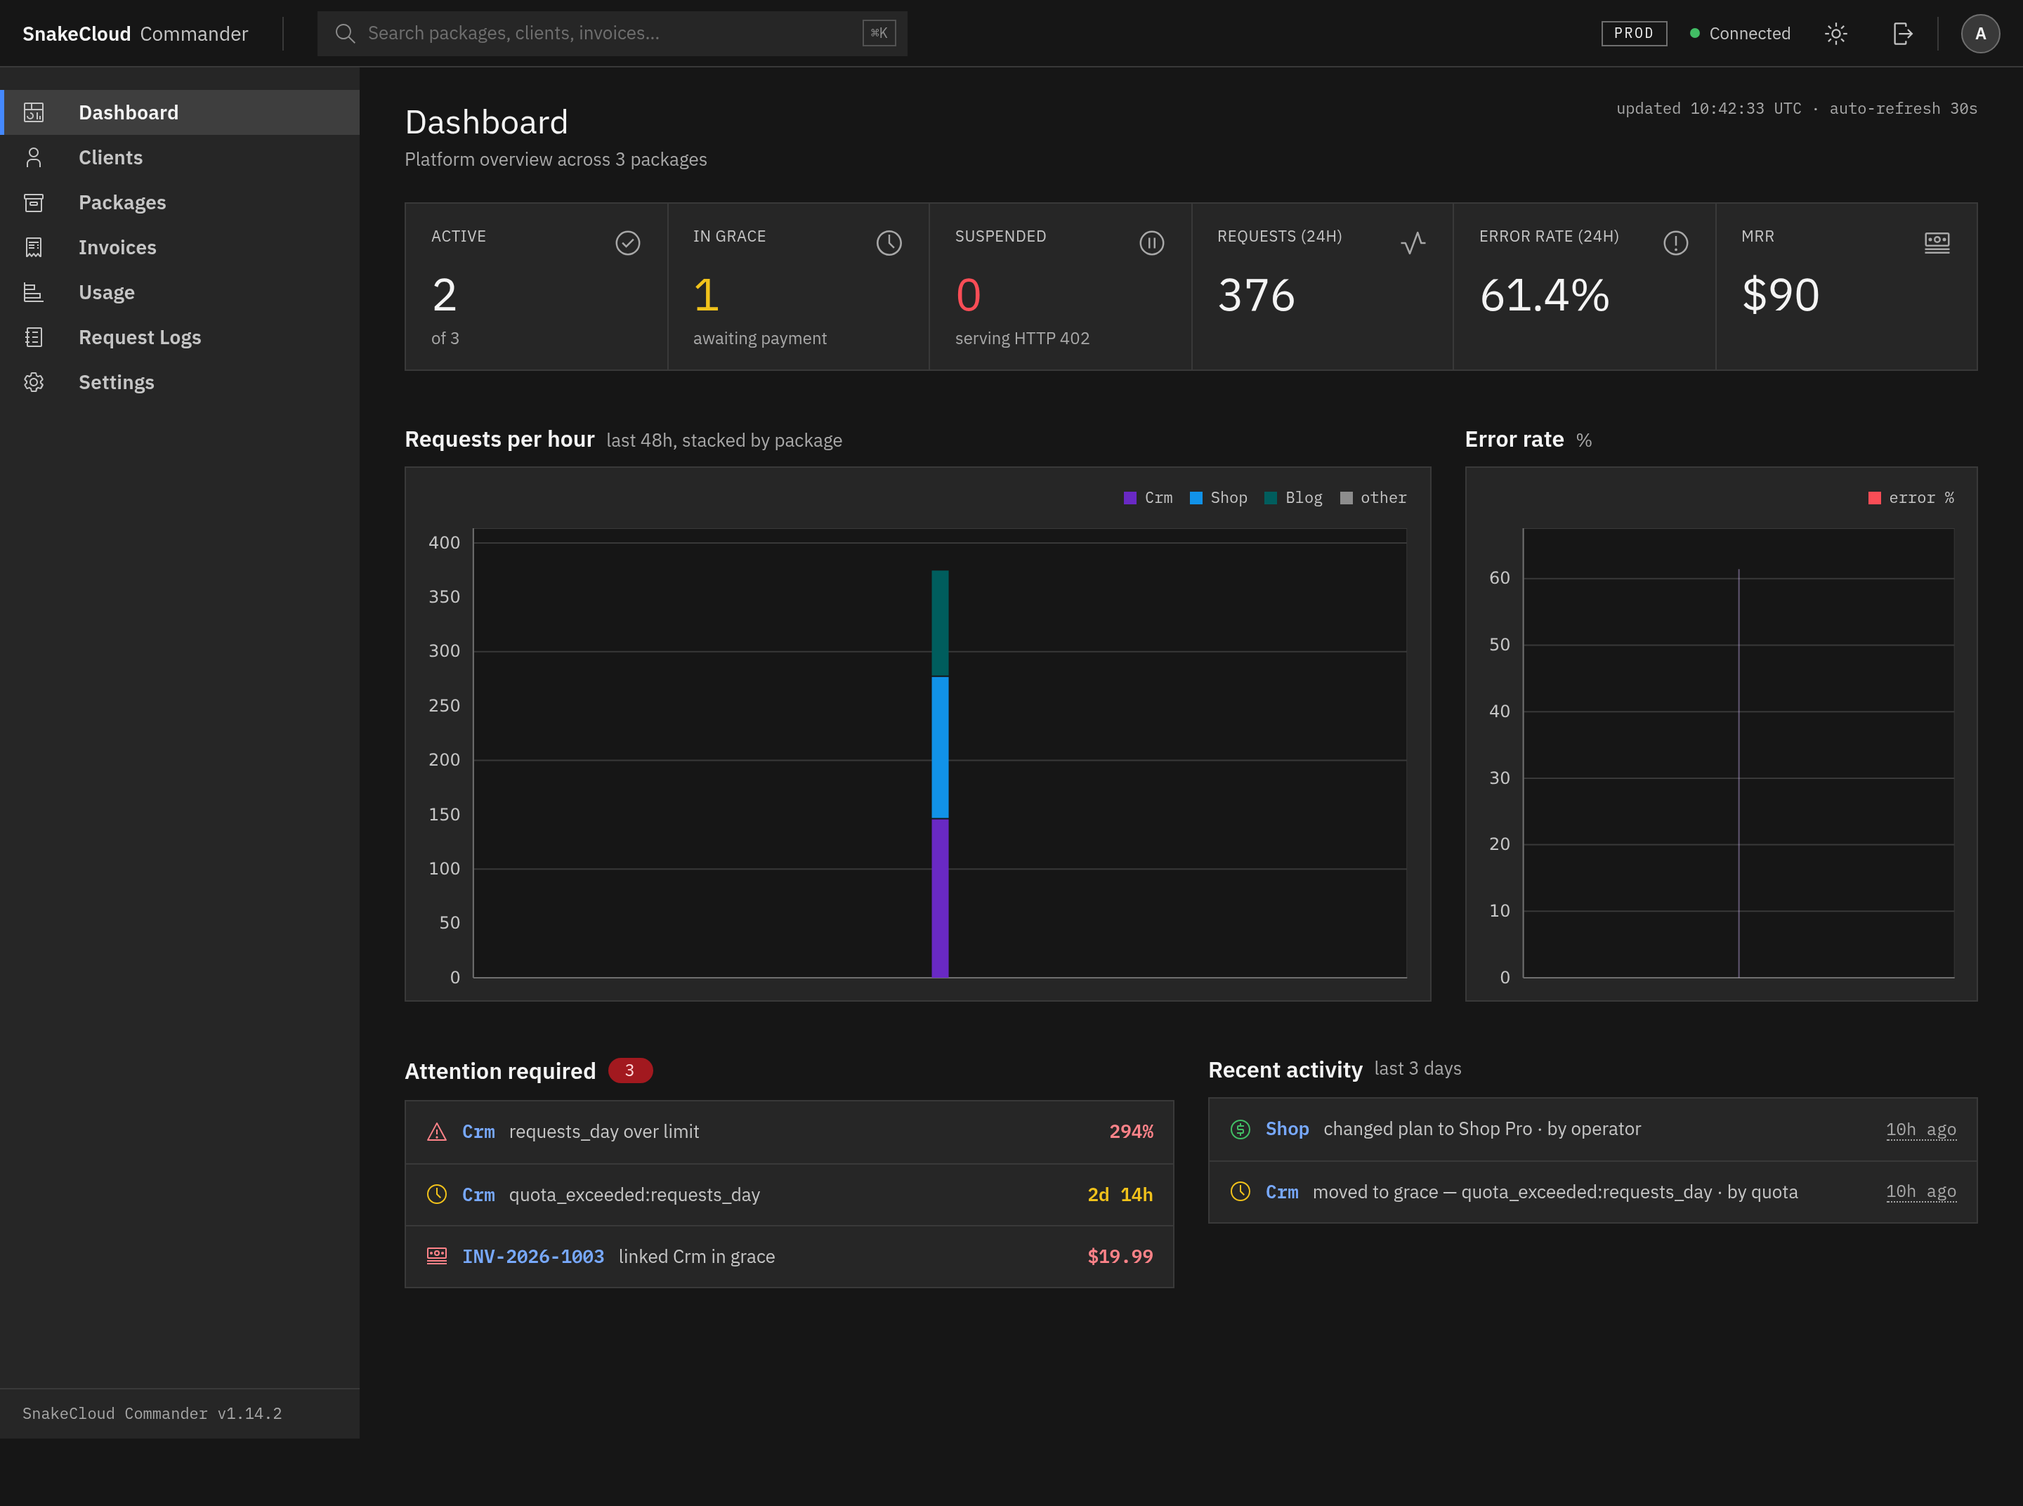
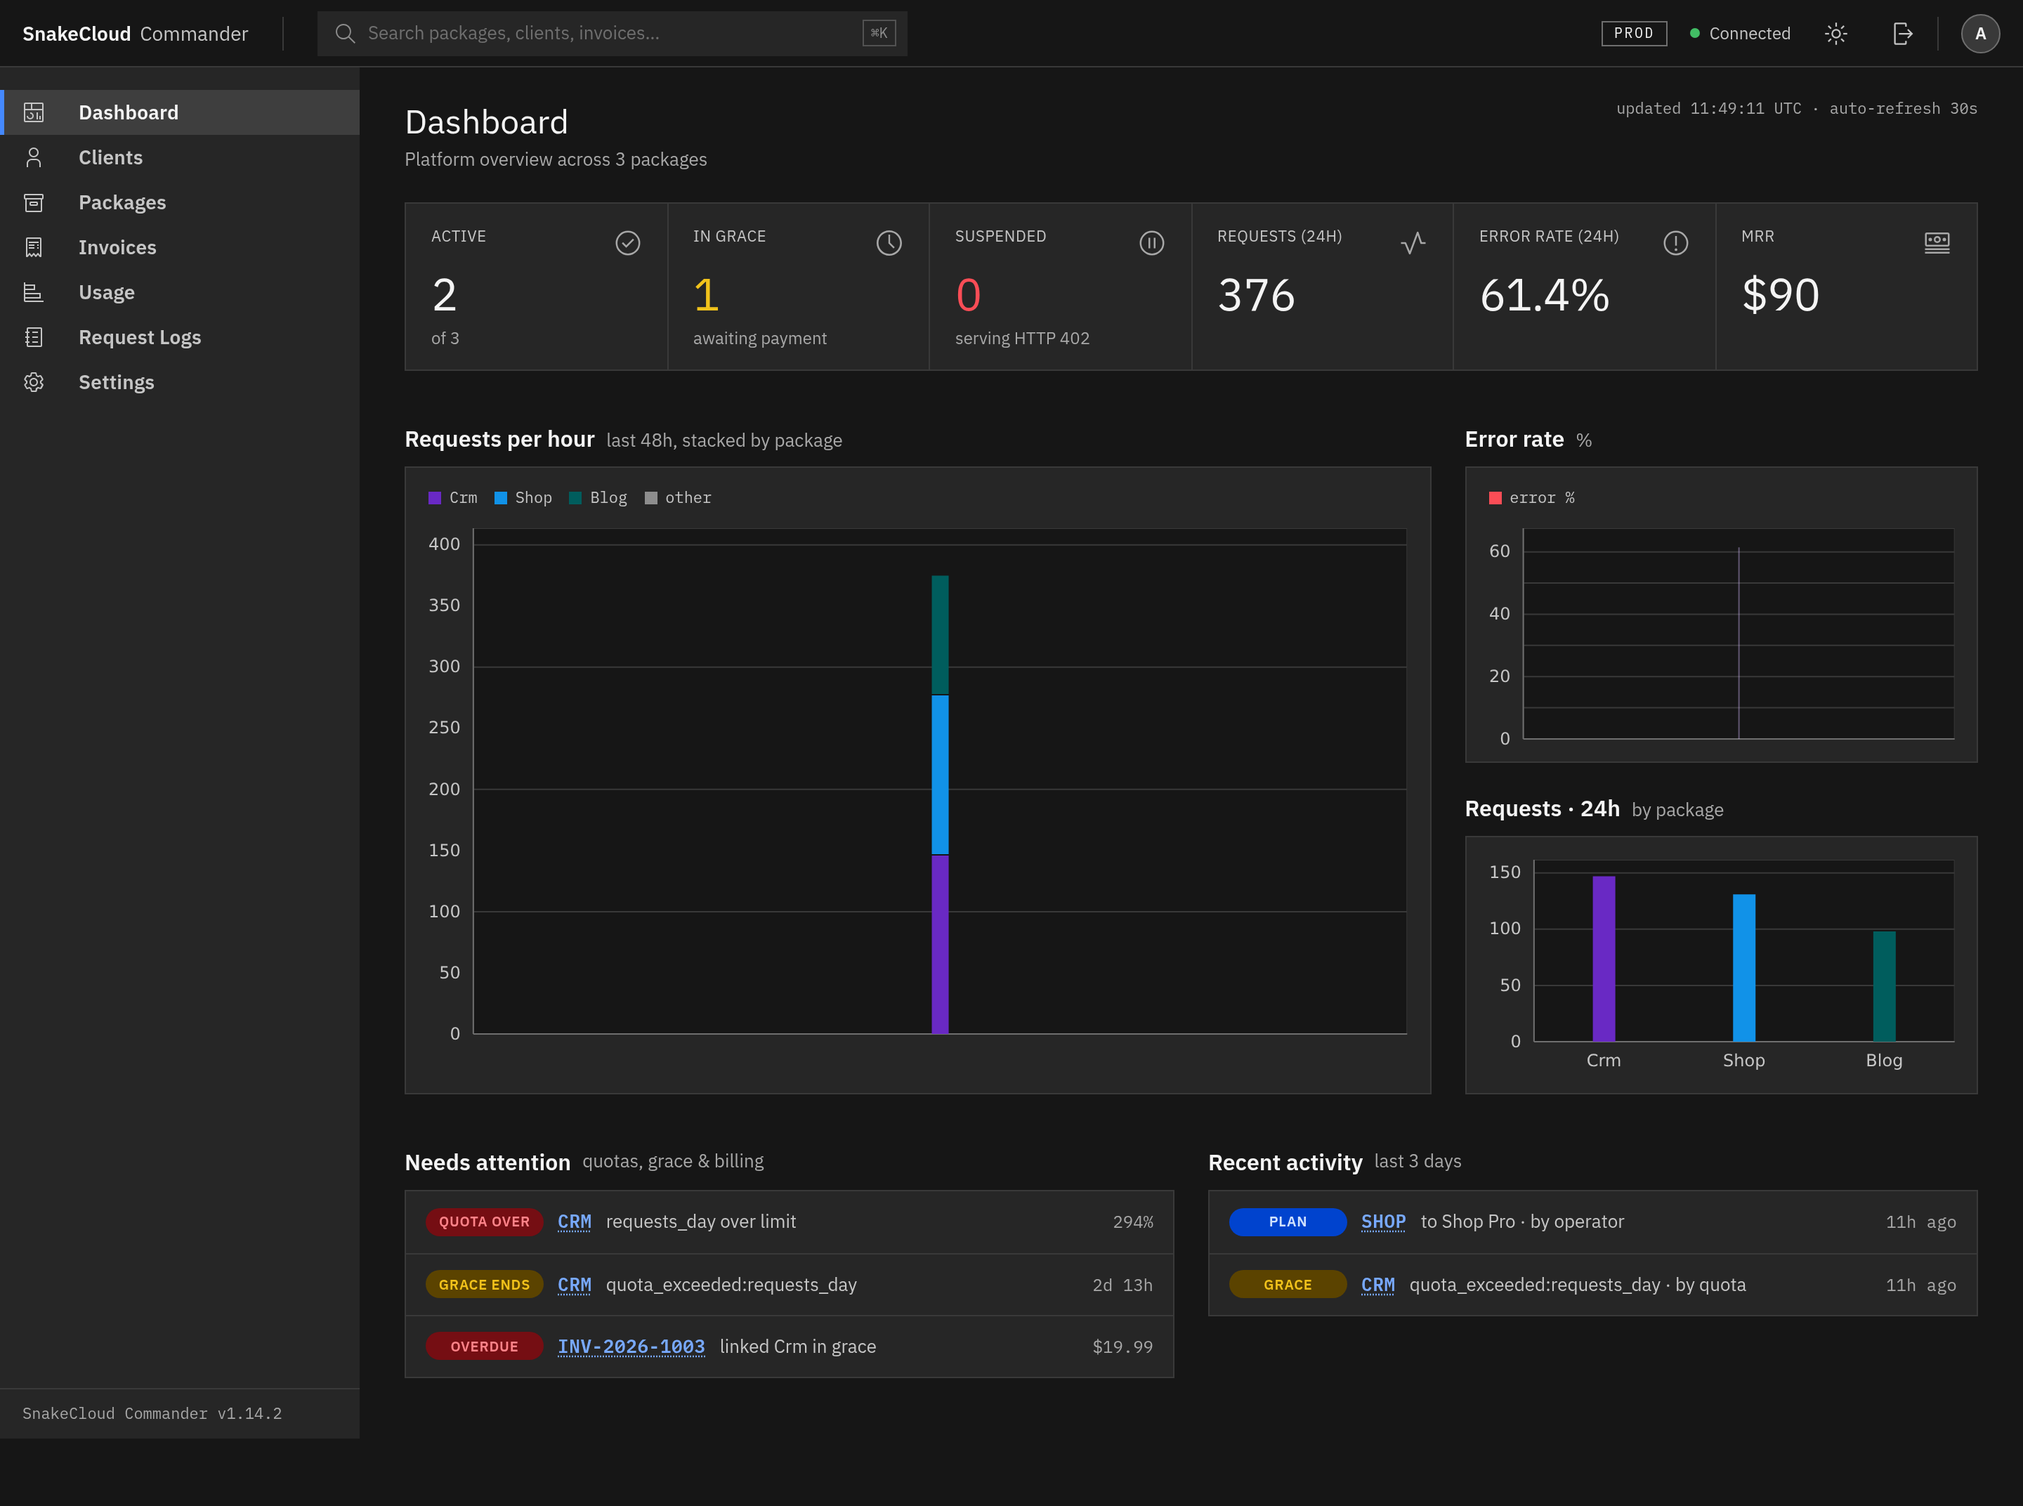
no message

diff --git a/commander/src/pages/Dashboard.tsx b/commander/src/pages/Dashboard.tsx
@@ -2,7 +2,7 @@ import { useCallback, useEffect, useMemo, useState, type ReactNode } from 'react
 import { useNavigate } from 'react-router'
 import { Loading } from '@carbon/react'
 import { Activity, CheckmarkOutline, Time, PauseOutline, Warning, Money } from '@carbon/icons-react'
-import { StackedBarChart, AreaChart } from '@carbon/charts-react'
+import { StackedBarChart, AreaChart, SimpleBarChart } from '@carbon/charts-react'
 import { useStore, useProvisionedPackages } from '../store/store'
 import { useAppTheme } from '../providers/ThemeProvider'
 import { useTick } from '../providers/TickProvider'
@@ -11,8 +11,13 @@ import { ChartCard, ChartLegend } from '../components/ChartCard'
 import { GraceCountdown } from '../components/GraceCountdown'
 import { RelativeTime } from '../components/RelativeTime'
 import { EmptyState } from '../components/EmptyState'
-import { stackedBarOptions, areaOptions, legendItems } from '../lib/chartOptions'
-import { snapshotsToPlatformSeries, type PlatformSeries } from '../lib/chartData'
+import { stackedBarOptions, areaOptions, barOptions, legendItems } from '../lib/chartOptions'
+import {
+  snapshotsToPlatformSeries,
+  requestsByPackageData,
+  packageColorMap,
+  type PlatformSeries,
+} from '../lib/chartData'
 import { platformUsage } from '../lib/api'
 import { formatCompact, formatCurrencyShort, formatCurrency, formatPercent } from '../lib/format'
 import type { ActivityEvent, UsageSnapshot } from '../store/types'
@@ -132,8 +137,13 @@ export function Dashboard() {
   const reqData = platform.series?.requests.data ?? []
   const errData = platform.series?.errorRate ?? []
   const hasChart = !platform.loading && !platform.error && reqData.length > 0
-  const reqOpts = useMemo(() => stackedBarOptions(theme, groups, '320px'), [theme, groups])
-  const errOpts = useMemo(() => areaOptions(theme, { 'error %': '#fa4d56' }, '320px'), [theme])
+  // Principal chart (left): requests per hour timeseries.
+  const reqOpts = useMemo(() => stackedBarOptions(theme, groups, '360px'), [theme, groups])
+  // Two charts beside the principal (right column, stacked).
+  const errOpts = useMemo(() => areaOptions(theme, { 'error %': '#fa4d56' }, '150px'), [theme])
+  const pkgColors = useMemo(() => packageColorMap(packages), [packages])
+  const reqByPkg = useMemo(() => requestsByPackageData(packages), [packages])
+  const reqByPkgOpts = useMemo(() => barOptions(theme, pkgColors, '150px', true), [theme, pkgColors])
 
   const attention = useMemo(() => {
     const items: { tone: Tone; label: string; entity: string; desc: ReactNode; metric: ReactNode; to: string }[] = []
@@ -201,7 +211,7 @@ export function Dashboard() {
         <KpiTile label="MRR" value={formatCurrencyShort(dash.mrr)} icon={<Money size={20} />} />
       </KpiCluster>
 
-      {/* Charts row */}
+      {/* Charts: principal on the left, error rate + requests-24h beside it */}
       <div className="scns-charts-row" style={{ display: 'grid', gridTemplateColumns: '2fr 1fr', gap: 24, marginTop: 40 }}>
         <ChartCard
           title="Requests per hour"
@@ -211,20 +221,25 @@ export function Dashboard() {
           {hasChart ? (
             <StackedBarChart data={reqData} options={reqOpts} />
           ) : (
-            <ChartPlaceholder loading={platform.loading} error={platform.error} height={320} />
+            <ChartPlaceholder loading={platform.loading} error={platform.error} height={360} />
           )}
         </ChartCard>
-        <ChartCard
-          title="Error rate"
-          subtitle="%"
-          right={<ChartLegend items={[{ label: 'error %', color: '#fa4d56' }]} />}
-        >
-          {hasChart ? (
-            <AreaChart data={errData} options={errOpts} />
-          ) : (
-            <ChartPlaceholder loading={platform.loading} error={platform.error} height={320} />
-          )}
-        </ChartCard>
+        <div style={{ display: 'flex', flexDirection: 'column', gap: 24 }}>
+          <ChartCard title="Requests · 24h" subtitle="by package">
+            <SimpleBarChart data={reqByPkg} options={reqByPkgOpts} />
+          </ChartCard>
+          <ChartCard
+            title="Error rate"
+            subtitle="%"
+            right={<ChartLegend items={[{ label: 'error %', color: '#fa4d56' }]} />}
+          >
+            {hasChart ? (
+              <AreaChart data={errData} options={errOpts} />
+            ) : (
+              <ChartPlaceholder loading={platform.loading} error={platform.error} height={150} />
+            )}
+          </ChartCard>
+        </div>
       </div>
 
       {/* Triage: attention required + recent activity, side by side */}

diff --git a/commander/src/lib/chartData.ts b/commander/src/lib/chartData.ts
@@ -1,5 +1,5 @@
 // Deterministic chart-data generators (seeded PRNG → stable shapes across renders).
-import type { HttpMethod, Package, TopEndpoint, UsageRollup, UsageSnapshot } from '../store/types'
+import type { HttpMethod, Invoice, Package, Subscription, TopEndpoint, UsageRollup, UsageSnapshot } from '../store/types'
 
 export interface Point {
   group: string
@@ -11,6 +11,70 @@ export const PALETTE = ['#6929c4', '#1192e8', '#005d5d', '#9f1853', '#fa4d56']
 export const OTHER_COLOR = '#8d8d8d'
 export const COLOR_4XX = '#d2a106'
 export const COLOR_5XX = '#fa4d56'
+
+// Semantic state colours for the breakdown donuts (color = status, per the design system).
+export const STATUS_COLORS = { active: '#42be65', warn: '#f1c21b', error: '#fa4d56' }
+
+// A simple {group,value} datum for donut / single-bar charts.
+export interface Datum {
+  group: string
+  value: number
+}
+
+// Dashboard breakdown: package status mix (donut).
+export function statusMixData(active: number, grace: number, suspended: number): Datum[] {
+  return [
+    { group: 'Active', value: active },
+    { group: 'Grace', value: grace },
+    { group: 'Suspended', value: suspended },
+  ]
+}
+
+// Dashboard breakdown: invoices by status (donut). Counts paid / pending / overdue.
+export function invoicesByStatusData(invoices: Invoice[]): Datum[] {
+  let paid = 0, pending = 0, overdue = 0
+  for (const i of invoices) {
+    if (i.status === 'paid') paid++
+    else if (i.status === 'pending') pending++
+    else overdue++
+  }
+  return [
+    { group: 'Paid', value: paid },
+    { group: 'Pending', value: pending },
+    { group: 'Overdue', value: overdue },
+  ]
+}
+
+// Dashboard breakdown: requests (24h) by package (horizontal bar), highest first.
+export function requestsByPackageData(packages: Package[]): Datum[] {
+  return packages
+    .map((p) => ({ group: p.name, value: Number(p.requests_24h) || 0 }))
+    .sort((a, b) => b.value - a.value)
+}
+
+// Dashboard breakdown: MRR by package (horizontal bar) — price_monthly of each package's CURRENT
+// subscription term (ended_at == null), mirroring how the MRR KPI is summed in the store.
+export function mrrByPackageData(packages: Package[], subscriptions: Subscription[]): Datum[] {
+  const current = new Map<number, number>()
+  for (const s of subscriptions) {
+    if (s.ended_at == null) current.set(s.package_id, Number(s.price_monthly) || 0)
+  }
+  return packages
+    .map((p) => ({ group: p.name, value: current.get(p.id) ?? 0 }))
+    .filter((d) => d.value > 0)
+    .sort((a, b) => b.value - a.value)
+}
+
+// Stable package→colour map (top packages by requests get the categorical palette, the rest fold to
+// grey) so a given package keeps the SAME colour across every chart on the dashboard.
+export function packageColorMap(packages: Package[]): Record<string, string> {
+  const sorted = [...packages].sort((a, b) => b.requests_24h - a.requests_24h)
+  const map: Record<string, string> = {}
+  sorted.forEach((p, i) => {
+    map[p.name] = i < PALETTE.length ? PALETTE[i] : OTHER_COLOR
+  })
+  return map
+}
 
 function mulberry32(seed: number): () => number {
   let a = seed

diff --git a/commander/src/lib/chartOptions.ts b/commander/src/lib/chartOptions.ts
@@ -78,6 +78,69 @@ export function lineOptions(theme: ThemeName, scale: Record<string, string>, hei
   }
 }
 
+// Breakdown donut (status mix, invoices by status). Carbon legend at the bottom; colours come from
+// the explicit semantic scale passed in.
+export function donutOptions(theme: ThemeName, scale: Record<string, string>, height = '220px'): Opt {
+  return {
+    theme,
+    height,
+    toolbar: { enabled: false },
+    animations: false,
+    legend: { enabled: true, position: 'bottom' },
+    donut: { alignment: 'center' },
+    color: { scale },
+  }
+}
+
+// Breakdown bar (requests/MRR by package). `horizontal` puts labels on the left axis (bars grow
+// right); otherwise labels go on the bottom axis (vertical columns). One colour per package.
+export function barOptions(theme: ThemeName, scale: Record<string, string>, height = '220px', horizontal = true): Opt {
+  const axes = horizontal
+    ? { left: { mapsTo: 'group', scaleType: 'labels' }, bottom: { mapsTo: 'value', includeZero: true } }
+    : { bottom: { mapsTo: 'group', scaleType: 'labels' }, left: { mapsTo: 'value', includeZero: true } }
+  return {
+    theme,
+    height,
+    toolbar: { enabled: false },
+    animations: false,
+    legend: { enabled: false },
+    axes,
+    color: { scale },
+    grid: horizontal ? { y: { enabled: false } } : { x: { enabled: false } },
+  }
+}
+
+// Breakdown meter (invoices by status) — one proportional bar split into segments + a legend.
+export function meterOptions(theme: ThemeName, scale: Record<string, string>, total: number, height = '200px'): Opt {
+  return {
+    theme,
+    height,
+    toolbar: { enabled: false },
+    animations: false,
+    color: { scale },
+    meter: { proportional: { total } },
+    legend: { enabled: true },
+  }
+}
+
+// Breakdown lollipop (MRR by package) — horizontal stems with a dot at each value.
+export function lollipopOptions(theme: ThemeName, scale: Record<string, string>, height = '220px'): Opt {
+  return {
+    theme,
+    height,
+    toolbar: { enabled: false },
+    animations: false,
+    legend: { enabled: false },
+    points: { enabled: true },
+    axes: {
+      left: { mapsTo: 'group', scaleType: 'labels' },
+      bottom: { mapsTo: 'value', includeZero: true },
+    },
+    color: { scale },
+    grid: { y: { enabled: false } },
+  }
+}
+
 export function areaOptions(theme: ThemeName, scale: Record<string, string>, height = '260px'): Opt {
   return {
     theme,

diff --git a/commander/src/styles/tokens.scss b/commander/src/styles/tokens.scss
@@ -513,10 +513,18 @@ body {
   .scns-grid-2col {
     grid-template-columns: 1fr !important;
   }
+  .scns-charts-4,
+  .scns-charts-5 {
+    grid-template-columns: repeat(2, minmax(0, 1fr)) !important;
+  }
 }
 @media (max-width: 672px) {
   .scns-kpi-cluster {
     grid-template-columns: repeat(2, minmax(0, 1fr)) !important;
+  }
+  .scns-charts-4,
+  .scns-charts-5 {
+    grid-template-columns: 1fr !important;
   }
   .scns-page {
     padding: 16px 16px 40px;

diff --git a/design/README.md b/design/README.md
@@ -195,14 +195,23 @@ Pantalla de acceso del operador. Email + password → token Sanctum (Bearer) gua
 
 ### Dashboard
 - Title row + subline de fecha; a la derecha `updated … · auto-refresh` (mono, helper).
-- **Fila de KPIs** (`KpiCluster`): tiles en grid de gap 1px (el gap muestra el borde). Valores
-  con color semántico (In grace ámbar, Suspended rojo) y deltas (verde/rojo). Las dos KPIs
-  reales (requests 24h y MRR) se computan de los datos en vivo; deltas/error-rate sintéticos.
-- **Attention required**: lista bordeada con severidad (QUOTA OVER / GRACE ENDS / OVERDUE /
-  GRACE) + enlace a la entidad + deep-link a la derecha.
-- **Charts** (grid 2fr/1fr): "Requests per hour" (stacked bar por package) + "Error rate"
-  (línea roja + área).
-- **Recent activity**: lista con dot de estado + frase con enlaces mono + timestamp relativo.
+- **Fila de KPIs** (`KpiCluster`, 6 tiles en grid de gap 1px — el gap muestra el borde): cada tile
+  lleva **label en MAYÚSCULA tracked** (estilo label-01), **valor 32px** con cifras tabulares y un
+  **icono Carbon** arriba-derecha (Active `CheckmarkOutline` verde, In grace `Time` ámbar, Suspended
+  `PauseOutline`, Requests `Activity`, Error rate `Warning`, MRR `Money`). Valores con color semántico
+  (In grace ámbar, Suspended rojo). Deltas periodo-anterior (▲/▼ verde/rojo) **solo si hay ventana
+  previa de 24h** — nunca se fabrica una flecha. Requests/error-rate/MRR se computan de datos en vivo.
+- **Charts** (grid 2fr/1fr): a la izquierda el principal **"Requests per hour"** (stacked bar por
+  package, 48h, leyenda a la izquierda); a la derecha, apilados, **"Requests · 24h by package"**
+  (barra horizontal, color por package consistente con el stacked) + **"Error rate"** (área roja).
+  Las dos columnas se igualan en altura. (Counts del feed `/usage/platform` llegan como string →
+  se coercionan a `Number` para no romper el eje.)
+- **Fila de triage** (grid 2 columnas): **"Needs attention"** (subtítulo `quotas, grace & billing`)
+  + **"Recent activity"** (`last 3 days`), ambas con **filas densas idénticas** (`scns-list-row`):
+  `[label pill de estado] · entidad (mono link) · detalle (rellena) · valor (mono, helper)`. En
+  attention el label es la severidad (Quota over/Grace ends/Overdue) y el valor la métrica (294% /
+  2d 14h / $19.99); en activity el label es el tipo de evento (Suspended/Grace/Resumed/Paid/Quota/
+  Plan) y el valor el timestamp relativo. Toda la fila es un botón clicable con hover.
 
 ### Clients (lista + drawer)
 - Tabla: Name (link) · Company · Email (mono) · Packages (count) · Status tag · Created.

diff --git a/README.md b/README.md
@@ -261,6 +261,38 @@ php artisan commander:quota:measure                # mide disco/requests/usuario
 - Metering por request en `commander_request_logs` (middleware terminable, cero latencia con FPM, columna `package_id`) + rollups en `commander_usage_rollups`.
 - El Commander cambia el estado de un paquete escribiendo `commander_packages` directamente: `POST /packages/{name}/suspend|grace|resume`.
 
+### Simulación de datos (`scripts/simulate.sh`)
+
+Script end-to-end para poblar el Commander en local (corre contra el stack Docker). Subcomandos:
+
+```bash
+bash scripts/simulate.sh                  # flujo completo: limpia BD → scaffold → provisiona →
+                                          # invoices → trafico (HTTP) → pipeline → reporte
+bash scripts/simulate.sh traffic <sub> [n]# SOLO trafico autenticado por HTTP contra un subdominio
+bash scripts/simulate.sh invoices         # SOLO genera invoices (paid/pending/overdue)
+bash scripts/simulate.sh pipeline         # SOLO rollup + quota:measure + refresh de KPIs
+bash scripts/simulate.sh report           # SOLO el reporte de estado
+```
+
+**Volumen masivo** — para llenar las gráficas (Requests per hour, Error rate) con datos repartidos
+en las últimas 48h sin esperar tráfico real:
+
+```bash
+bash scripts/simulate.sh volume [filas_por_package]   # default 100000; p. ej. volume 200000
+```
+
+- Inserta los `commander_request_logs` con **un solo `INSERT ... SELECT FROM seq_1_to_N`** por package
+  (motor **SEQUENCE** de MariaDB): set-based, sin loops ni HTTP → órdenes de magnitud más rápido.
+- `occurred_at` repartido uniforme en 48h (rellena los ~48 buckets horarios); escala por package
+  (1.0 / 0.6 / 0.3) y mezcla de status realista (~95% 2xx · 4% 4xx · 1% 5xx).
+- **Resetea** `commander_usage_rollups` y recomputa todos los buckets (`commander:usage:rollup` es
+  incremental desde el último bucket; sin el reset solo agregaría las horas recientes).
+- El `INSERT` es rapidísimo incluso con cientos de miles; el cuello de botella a alto volumen es el
+  rollup en PHP (recorre los buckets). Cada `volume` **acumula** sobre lo existente.
+
+Overrides por entorno: `ADMIN_EMAIL` / `ADMIN_PASSWORD` (operador), `SCENARIO=shop|blog|generic`
+(en `traffic`), `DOCKER_COMPOSE` (runner). La spec de packages se edita en el array `PACKAGES[]`.
+
 ### Generadores package-aware
 
 Todos los `make:*` soportan `--package`:
